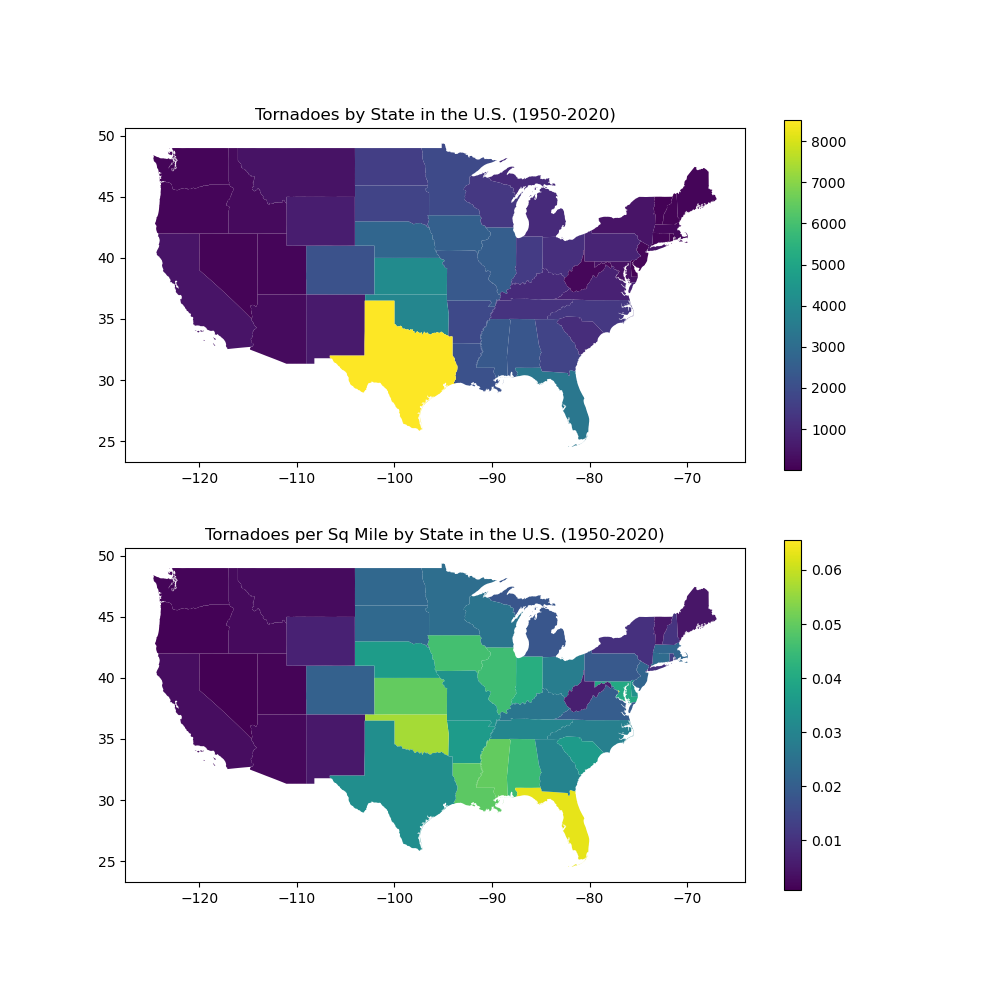
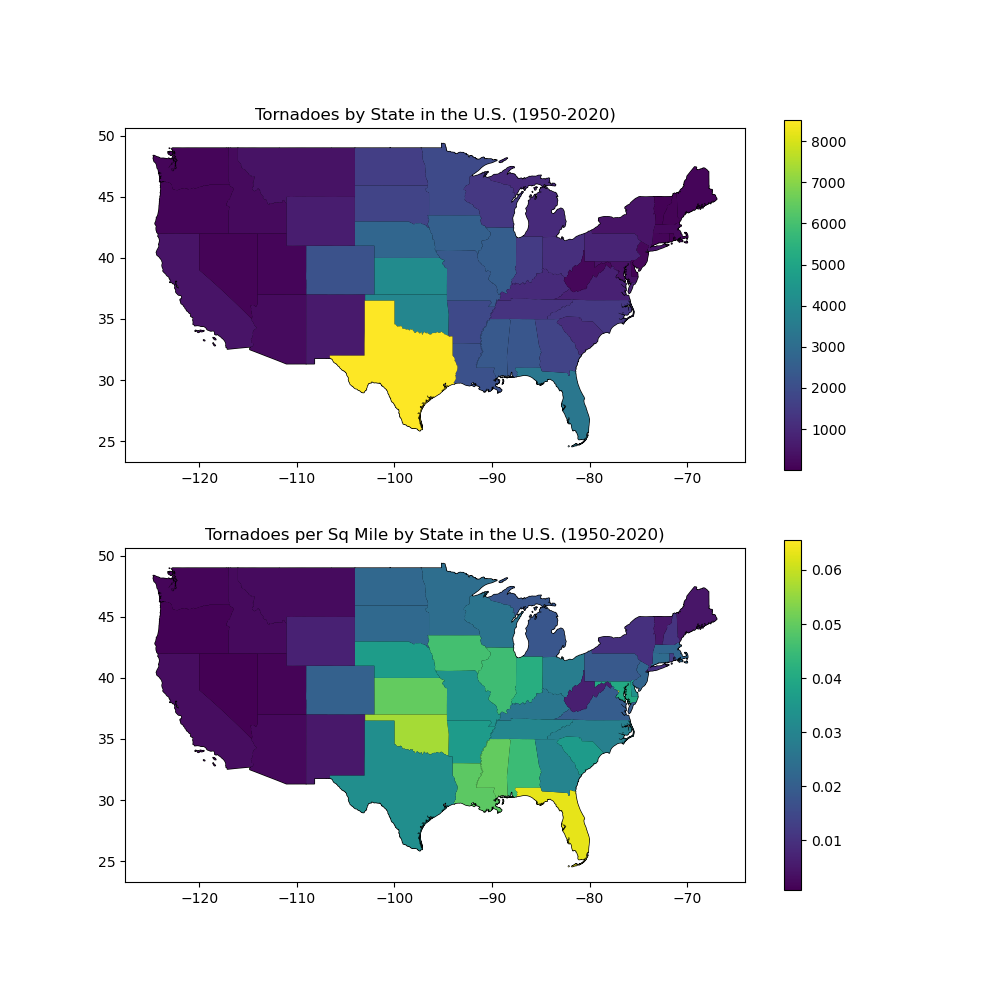
updating devastation predictions to take in label for flexibility

diff --git a/src/analysis.py b/src/analysis.py
@@ -28,13 +28,14 @@ import tuning_args as ta
 
 ALL_VALID_YEARS = [x for x in range(2009, 2020)]
 DEVASTATION_FEATURES = ['mo', 'dy', 'mag', 'stf', 'loss', 'closs', 'slat',
-                        'slon', 'len', 'wid', 'fat']
-TORNADO_FILE = 'data/1950-2020_all_tornadoes.csv'
-RESULT_FILE = 'data/analysis-results.txt'
-MAGNITUDES_PATH = 'figures/magnitudes_2009-2019.png'
+                        'slon', 'len', 'wid', 'fat', 'inj']
+TORNADO_FILE = '../data/1950-2020_all_tornadoes.csv'
+RESULT_FILE = '../data/analysis-results.txt'
+MAGNITUDES_PATH = '../figures/magnitudes_2009-2019.png'
+COUNT_PATH = '../figures/tornado_count_1950-2020.png'
 
 
-def plot_tornadoes_by_state(tornadoes, states):
+def plot_tornadoes_by_state(tornadoes, states, save_path):
     """
     Takes in a geodataframe containing information about tornadoes
     and a geodataframestates containing information about U.S. state
@@ -52,12 +53,14 @@ def plot_tornadoes_by_state(tornadoes, states):
     tornado_state_counts = tornadoes.groupby(by='stf').count()
     states['STATE'] = states['STATE'].apply(lambda x: int(x))
     # Merge counts of tornadoes per state into state data to be plotted
+    states.plot(ax=ax1, color='#EEEEEE', edgecolor='black')
+    states.plot(ax=ax2, color='#EEEEEE', edgecolor='black')
     merged = states.merge(right=tornado_state_counts, how='left',
                           left_on='STATE', right_on='stf')
     merged['normalized_count'] = merged['count'] / merged['CENSUSAREA']
     merged.plot(ax=ax1, column='count', legend=True)
     merged.plot(ax=ax2, column='normalized_count', legend=True)
-    plt.savefig('figures/tornado_count_1950-2020.png')
+    plt.savefig(save_path)
 
 
 def most_in_year(tornadoes):
@@ -74,7 +77,7 @@ def most_in_year(tornadoes):
     return (max_year, max_in_year)
 
 
-def most_likely_time_period(index, timeperiod, figname, df: pd.DataFrame):
+def most_likely_time_period(index, timeperiod, save_path, df: pd.DataFrame):
     """
     Given an datetime index of the passed dataframe(df) which should be a
     tornado dataframe and information about that index (timeperiod - str and
@@ -88,12 +91,13 @@ def most_likely_time_period(index, timeperiod, figname, df: pd.DataFrame):
     time_tornadoes = tornadoes.groupby(index).count()
     sns.relplot(data=time_tornadoes, x='date_time', y='count', kind='line')
     plt.xlabel(timeperiod)
-    plt.savefig(f'figures/{figname}.png', bbox_inches='tight')
+    plt.savefig(save_path, bbox_inches='tight')
 
 
-def devastation_predictions(df, quick_tune=False):
+def devastation_predictions(df, label, quick_tune=False):
     """
-    Takes in a tornado dataframe, df, and a boolean, quick_tune, and attempts
+    Takes in a tornado dataframe, df, a label to predict, label,
+    and a boolean, quick_tune, and attempts
     to predict various devastation metrics about a tornado based on the
     tornado dataset. Uses and trains multiple kinds of machine learning models
     to see which one can best predict these metrics. Writes model accuracy
@@ -103,11 +107,13 @@ def devastation_predictions(df, quick_tune=False):
     """
     tornadoes = pd.DataFrame(df)
     tornadoes.index = range(len(tornadoes.index))
+    feature_cols = [x for x in DEVASTATION_FEATURES if x != label]
     tornadoes[DEVASTATION_FEATURES] = \
         tornadoes[DEVASTATION_FEATURES].astype(float)
-    features = tornadoes[DEVASTATION_FEATURES]
-    tornadoes[['inj']] = tornadoes[['inj']].astype(float)
-    labels = tornadoes[['inj']]
+    features = tornadoes[feature_cols]
+    labels = tornadoes[[label]]
+    print(features.columns)
+    print(labels.columns)
     features_train, features_test, labels_train, labels_test = \
         train_test_split(features, labels, test_size=0.2)
     fit_kwargs = {
@@ -151,6 +157,7 @@ def devastation_predictions(df, quick_tune=False):
     o_sys = sys.stdout
     with open(RESULT_FILE, 'a') as f:
         sys.stdout = f
+        print('Predicting:', label, '\n')
         for result in results:
             print(f'{result[2]} - Train Accuracy,',
                   ('Tuned:' if result[1] else 'Not-Tuned:'),
@@ -247,19 +254,20 @@ def main(args):
     sys.stdout = o_sys
     poverty_and_tornadoes(census)
     plot_magnitudes(tornadoes, states, MAGNITUDES_PATH)
-    devastation_predictions(tornadoes,
-                            quick_tune=(not args[0] if len(args) == 1
-                                        else True))
+    quick_tune = (not args[0] if len(args) == 1 else True)
+    devastation_predictions(tornadoes, 'inj', quick_tune)
+    devastation_predictions(tornadoes, 'fat', quick_tune)
+    devastation_predictions(tornadoes, 'loss', quick_tune)
     tornadoes = dp.import_tornado_data(TORNADO_FILE)
     most_likely_time_period(tornadoes.index.year, 'year',
-                            'yearly', tornadoes)
+                            '../figures/yearly.png', tornadoes)
     most_likely_time_period(tornadoes.index.month, 'month',
-                            'monthly', tornadoes)
+                            '../figures/monthly.png', tornadoes)
     most_likely_time_period(tornadoes.index.week, 'week',
-                            'weekly', tornadoes)
+                            '../figures/weekly.png', tornadoes)
     most_likely_time_period(tornadoes.index.dayofyear, 'day',
-                            'daily', tornadoes)
-    plot_tornadoes_by_state(tornadoes, states)
+                            '../figures/daily.png', tornadoes)
+    plot_tornadoes_by_state(tornadoes, states, COUNT_PATH)
 
 
 if __name__ == '__main__':

diff --git a/src/cse163_utils.py b/src/cse163_utils.py
@@ -1,0 +1,82 @@
+"""
+Hunter Schafer
+CSE 163 AX
+
+A file that contains some CSE 163 specific helper functions
+You do not need to understand how these functions are implemented,
+but you should be able to use the ones we described in class!
+"""
+
+import math
+
+import numpy as np
+import pandas as pd
+
+
+TOLERANCE = 0.001
+
+
+def check_approx_equals(expected, received):
+    """
+    Checks received against expected, and returns whether or
+    not they match (True if they do, False otherwise).
+    If the argument is a float, will do an approximate check.
+    If the arugment is a data structure will do an approximate check
+    on all of its contents.
+    """
+    try:
+        if type(expected) == dict:
+            # first check that keys match, then check that the
+            # values approximately match
+            return expected.keys() == received.keys() and \
+                all([check_approx_equals(expected[k], received[k])
+                    for k in expected.keys()])
+        elif type(expected) == list or type(expected) == set:
+            # Checks both lists/sets contain the same values
+            return len(expected) == len(received) and \
+                all([check_approx_equals(v1, v2)
+                    for v1, v2 in zip(expected, received)])
+        elif type(expected) == float:
+            return math.isclose(expected, received, abs_tol=TOLERANCE)
+        elif type(expected) == np.ndarray:
+            return np.allclose(expected, received, abs_tol=TOLERANCE,
+                               equal_nan=True)
+        elif type(expected) == pd.DataFrame:
+            try:
+                pd.testing.assert_frame_equal(expected, received,
+                                              atol=TOLERANCE)
+                return True
+            except AssertionError:
+                return False
+        elif type(expected) == pd.Series:
+            try:
+                pd.testing.assert_series_equal(expected, received,
+                                               atol=TOLERANCE)
+                return True
+            except AssertionError:
+                return False
+        else:
+            return expected == received
+    except Exception as e:
+        print(f"EXCEPTION: Raised when checking check_approx_equals {e}")
+        return False
+
+
+def assert_equals(expected, received):
+    """
+    Checks received against expected, throws an AssertionError
+    if they don't match. If the argument is a float, will do an approximate
+    check. If the arugment is a data structure will do an approximate check
+    on all of its contents.
+    """
+
+    if type(expected) == str:
+        # Make sure strings have explicit quotes around them
+        err_msg = f'Failed: Expected "{expected}", but received "{received}"'
+    elif type(expected) in [np.ndarray, pd.Series, pd.DataFrame]:
+        # Want to make multi-line output for data structures
+        err_msg = f'Failed: Expected\n{expected}\n\nbut received\n{received}'
+    else:
+        err_msg = f'Failed: Expected {expected}, but received {received}'
+
+    assert check_approx_equals(expected, received), err_msg

diff --git a/src/testing.py b/src/testing.py
@@ -1,0 +1,35 @@
+"""
+Jacob McKenney & Luke Sala
+
+Defines methods for testing the validity of our data analysis functioins
+in analysis.py
+"""
+import dataprocessing as dp
+import analysis as a
+from cse163_utils import assert_equals
+
+
+TESTING_TORNADO_FULL = 'test_data/tornado_test_all.csv'
+MAGNITUDES_PATH = 'test_figures/magnitudes_2009-2019.png'
+COUNT_PATH = 'test_figures/tornado_count_1950-2020.png'
+
+
+def main():
+    full_tornadoes = dp.import_tornado_data(TESTING_TORNADO_FULL)
+    states = dp.import_state_geometries()
+    # Test file includes 3 tornadoes from 2009-2019 result should plot
+    # one tornado in alabama, arkansas, and florida
+    a.plot_magnitudes(full_tornadoes, states, MAGNITUDES_PATH)
+    # Testing file includes 3 rows for Texas but should only plot a value
+    # of 2 tornadoes for TX because two are duplicates (different legs
+    # of the same tornado)
+    a.plot_tornadoes_by_state(full_tornadoes, states, COUNT_PATH)
+    # There are four rows for 1995 but again one is a duplicate
+    assert_equals((1995, 3), a.most_in_year(full_tornadoes))
+
+    a.most_likely_time_period(full_tornadoes.index.year, 'year',
+                              'test_figures/yearly.png', full_tornadoes)
+
+
+if __name__ == '__main__':
+    main()

diff --git a/src/dataprocessing.py b/src/dataprocessing.py
@@ -14,8 +14,7 @@ import geopandas as gpd
 from shapely.geometry import Point
 
 
-TORNADO_FILE = 'data/1950-2020_all_tornadoes.csv'
-STATE_FILE = 'data/gz_2010_us_040_00_5m.json'
+STATE_FILE = '../data/gz_2010_us_040_00_5m.json'
 API_KEY = 'd3687e22fcd51ce480482a5caa07e0ae239c77a5'
 
 
@@ -73,7 +72,7 @@ def tornado_census_by_year(years, tornadoes: pd.DataFrame):
             result = joined
         else:
             result = pd.concat([result, joined], axis=0)
-        result.to_csv('data/joined.csv')
+        result.to_csv('../data/joined.csv')
     return result
 
 
